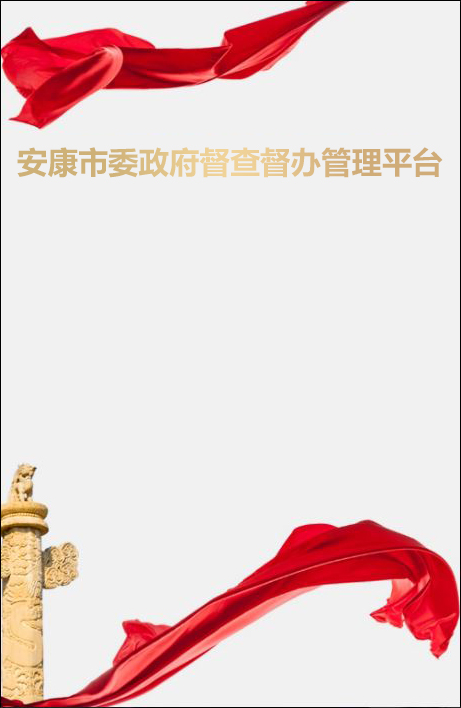
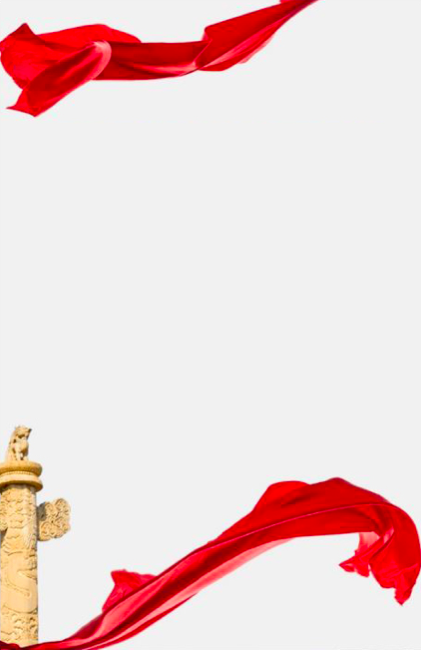
chaos.

Changed region(s): [[0.0, 0.0, 1.0, 1.0], [0.0, 0.0, 0.9572, 0.2769]]

diff --git a/App.js b/App.js
@@ -50,7 +50,7 @@ var App = React.createClass({
         <Scene key="root">
           <Scene key="tabBar" tabs={true} default="projectDashboad"
             tabBarStyle={{backgroundColor: '#F6F6F6'}}>
-  	        <Scene key="projectDashboad" title="督查督办" initial={true}
+  	        <Scene key="projectDashboad" title="督查督办" initial={false}
               icon={TabIcon} iconName={"ios-home"}
               navigationBarStyle={{backgroundColor: '#D03F4A', borderBottomWidth: 0}}
               titleStyle={{color: 'white'}}
@@ -141,6 +141,7 @@ var App = React.createClass({
             backTitle={<Icon style={{color: 'white'}} name={'ios-arrow-back'} size={25} />}/>
 
           <Scene key="chart" title="统计分析"
+            hideNavBar={false}
             navigationBarStyle={{backgroundColor: '#D03F4A'}}
             titleStyle={{color: 'white'}}
             component={ChartView}
@@ -148,6 +149,7 @@ var App = React.createClass({
             backTitle={<Icon style={{color: 'white'}} name={'ios-arrow-back'} size={25} />}/>
 
           <Scene key="yaoqiu1" title="中央要求"
+            hideNavBar={false}
             navigationBarStyle={{backgroundColor: '#D03F4A'}}
             titleStyle={{color: 'white'}}
             component={YaoQiu1}
@@ -155,6 +157,7 @@ var App = React.createClass({
             backTitle={<Icon style={{color: 'white'}} name={'ios-arrow-back'} size={25} />}/>
 
           <Scene key="yaoqiu2" title="省级要求"
+            hideNavBar={false}
             navigationBarStyle={{backgroundColor: '#D03F4A'}}
             titleStyle={{color: 'white'}}
             component={YaoQiu2}
@@ -162,12 +165,13 @@ var App = React.createClass({
             backTitle={<Icon style={{color: 'white'}} name={'ios-arrow-back'} size={25} />}/>
 
           <Scene key="yaoqiu3" title="市级要求"
+            hideNavBar={false}
             navigationBarStyle={{backgroundColor: '#D03F4A'}}
             titleStyle={{color: 'white'}}
             component={YaoQiu3}
             hideBackImage={true}
             backTitle={<Icon style={{color: 'white'}} name={'ios-arrow-back'} size={25} />}/>
-          <Scene key="login" component={LoginView} hideNavBar={true} initial={false}/>
+          <Scene key="login" component={LoginView} hideNavBar={true} initial={true}/>
         </Scene>
       </Router>
     );

diff --git a/ZhengFu.js b/ZhengFu.js
@@ -66,13 +66,13 @@ var ZhengFu = React.createClass({
           <View style={[styles.grid, {marginBottom: 15}]}>
             <View style={[styles.row, styles.gridRow]}>
               <View style={[styles.item]}>
-                <TouchableOpacity onPress={() => Actions.fenkoulist({title: '政府工作报告'})}>
+                <TouchableOpacity onPress={() => Actions.fenkoulist({title: '政府工作报告', type2: 'gzbg'})}>
                   <Text style={styles.itemTitle}>政府工作报告</Text>
                   <Text style={styles.itemSubTitle}>123个</Text>
                 </TouchableOpacity>
               </View>
               <View style={[styles.item]}>
-                <TouchableOpacity onPress={() => Actions.fenkoulist({title: '重点项目'})}>
+                <TouchableOpacity onPress={() => Actions.fenkoulist({title: '重点项目', type2: 'zdxm'})}>
                   <Text style={styles.itemTitle}>重点项目</Text>
                   <Text style={styles.itemSubTitle}>380个</Text>
                 </TouchableOpacity>
@@ -80,7 +80,7 @@ var ZhengFu = React.createClass({
             </View>
             <View style={[styles.row, styles.gridRow]}>
               <View style={[styles.item]}>
-                <TouchableOpacity onPress={() => Actions.fenkoulist({title: '公开承诺'})}>
+                <TouchableOpacity onPress={() => Actions.fenkoulist({title: '公开承诺', type2: 'gkcn'})}>
                   <Text style={styles.itemTitle}>公开承诺</Text>
                   <Text style={styles.itemSubTitle}>108个</Text>
                 </TouchableOpacity>

diff --git a/OverrideTabBar.js b/OverrideTabBar.js
@@ -41,14 +41,14 @@ const OverrideTabBar = React.createClass({
     const backgroundColor = isTabActive ? '#D03F4A' : '#FB3066';
 
     return <Button
-      style={{flex: 1, backgroundColor: backgroundColor}}
+      style={{flex: 1}}
       key={name}
       accessible={true}
       accessibilityLabel={name}
       accessibilityTraits='button'
       onPress={() => this.props.goToPage(page)}
     >
-      <View style={[styles.tab, this.props.tabStyle]}>
+      <View style={[styles.tab, this.props.tabStyle, {flex: 1, backgroundColor: backgroundColor}]}>
         <Text style={[{color: textColor, fontWeight, }, textStyle, ]}>
           {name}
         </Text>
@@ -72,7 +72,7 @@ const OverrideTabBar = React.createClass({
     });
 
     return (
-      <View style={[styles.tabs, {backgroundColor: this.props.backgroundColor, }, this.props.style, ]}>
+      <View style={[styles.tabs, this.props.style, ]}>
         {this.props.tabs.map((tab, i) => this.renderTabOption(tab, i))}
       </View>
     );

diff --git a/LoginView.js b/LoginView.js
@@ -33,6 +33,7 @@ var LoginView = React.createClass({
     return (
       <View style={styles.container}>
         <Image source={imageUri} style={styles.backgroundImage}>
+          <Text style={styles.title}>安康市委政府督查督办管理平台</Text>
           <View style={styles.form}>
             <View style={[styles.row, styles.phone]}>
               <Icon name={'ios-call'} size={25} style={styles.icon}/>
@@ -69,16 +70,17 @@ var styles = StyleSheet.create({
   },
   title: {
     color: '#415680',
-    fontSize: 30,
-    fontWeight: '400',
+    fontSize: 25,
+    fontWeight: 'bold',
     textAlign: 'center',
-    marginBottom: 50,
-    backgroundColor: '#F4FAFF'
+    marginBottom: 5,
+    backgroundColor: '#F1F1F1',
+    marginTop: 45,
   },
   form: {
     marginLeft: 15,
     marginRight: 15,
-    marginTop: 120,
+    marginTop: 30,
     borderRadius: 6,
     borderColor:"#ECECEC",
     borderWidth: 1,

diff --git a/ProjectDashboad.js b/ProjectDashboad.js
@@ -46,7 +46,7 @@ var ProjectDashboad = React.createClass({
   },
 });
 
-var HEADER_HEIGHT = Platform.OS === 'ios' ? 64 : 55;
+var HEADER_HEIGHT = Platform.OS === 'ios' ? 64 : 54;
 var styles = StyleSheet.create({
   container: {
     flex: 1,

diff --git a/NewsList.js b/NewsList.js
@@ -28,7 +28,7 @@ var NewsList = React.createClass({
   },
 });
 
-var HEADER_HEIGHT = Platform.OS === 'ios' ? 64 : 55;
+var HEADER_HEIGHT = Platform.OS === 'ios' ? 64 : 54;
 var styles = StyleSheet.create({
   container: {
     flex: 1,
